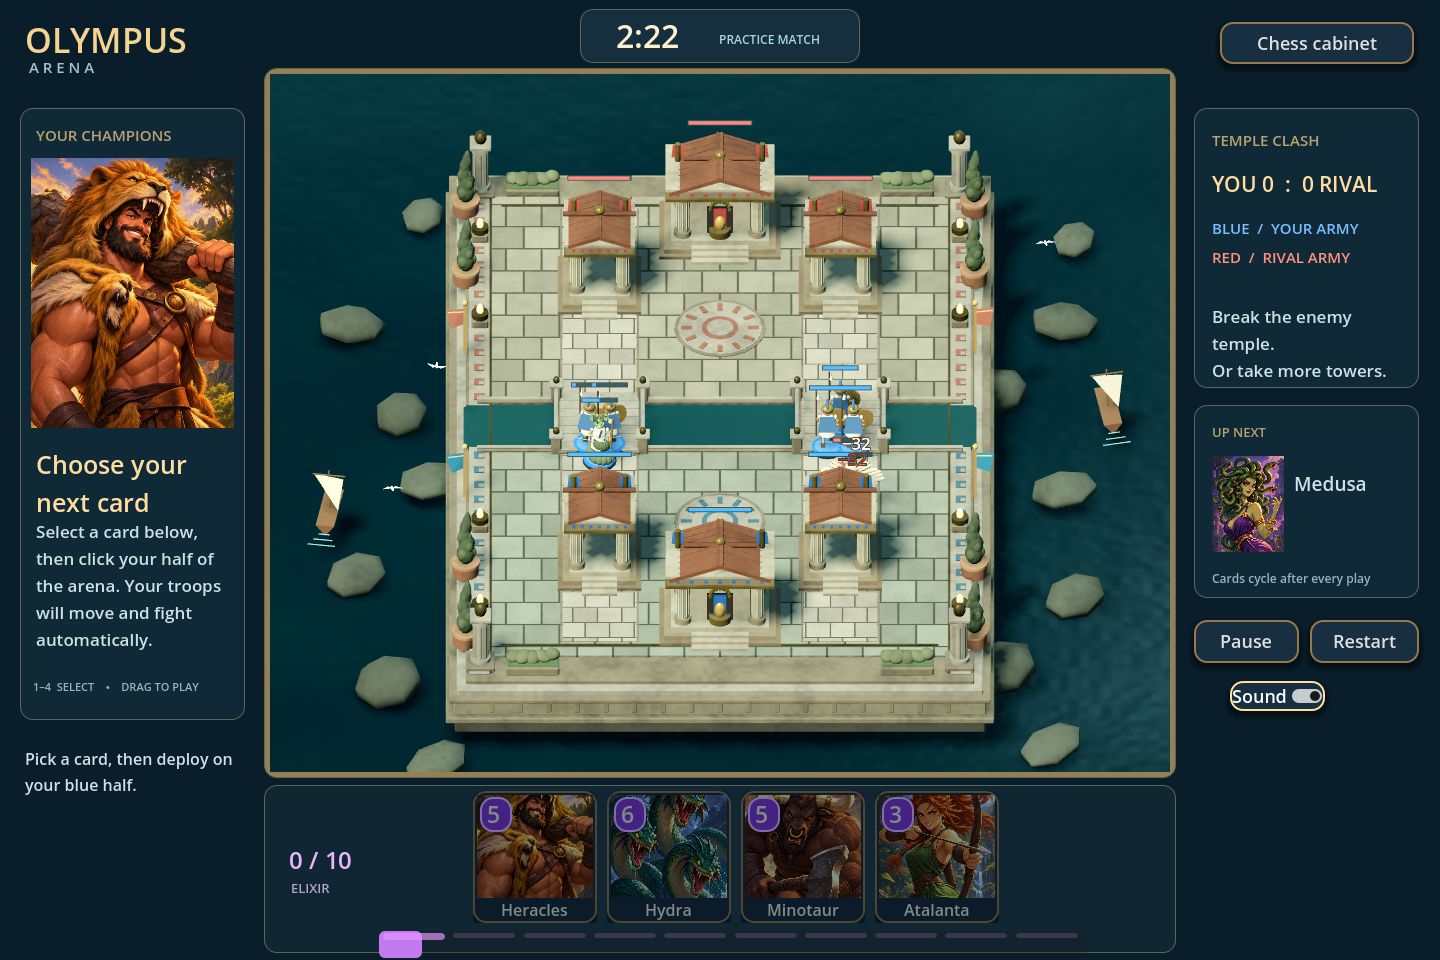
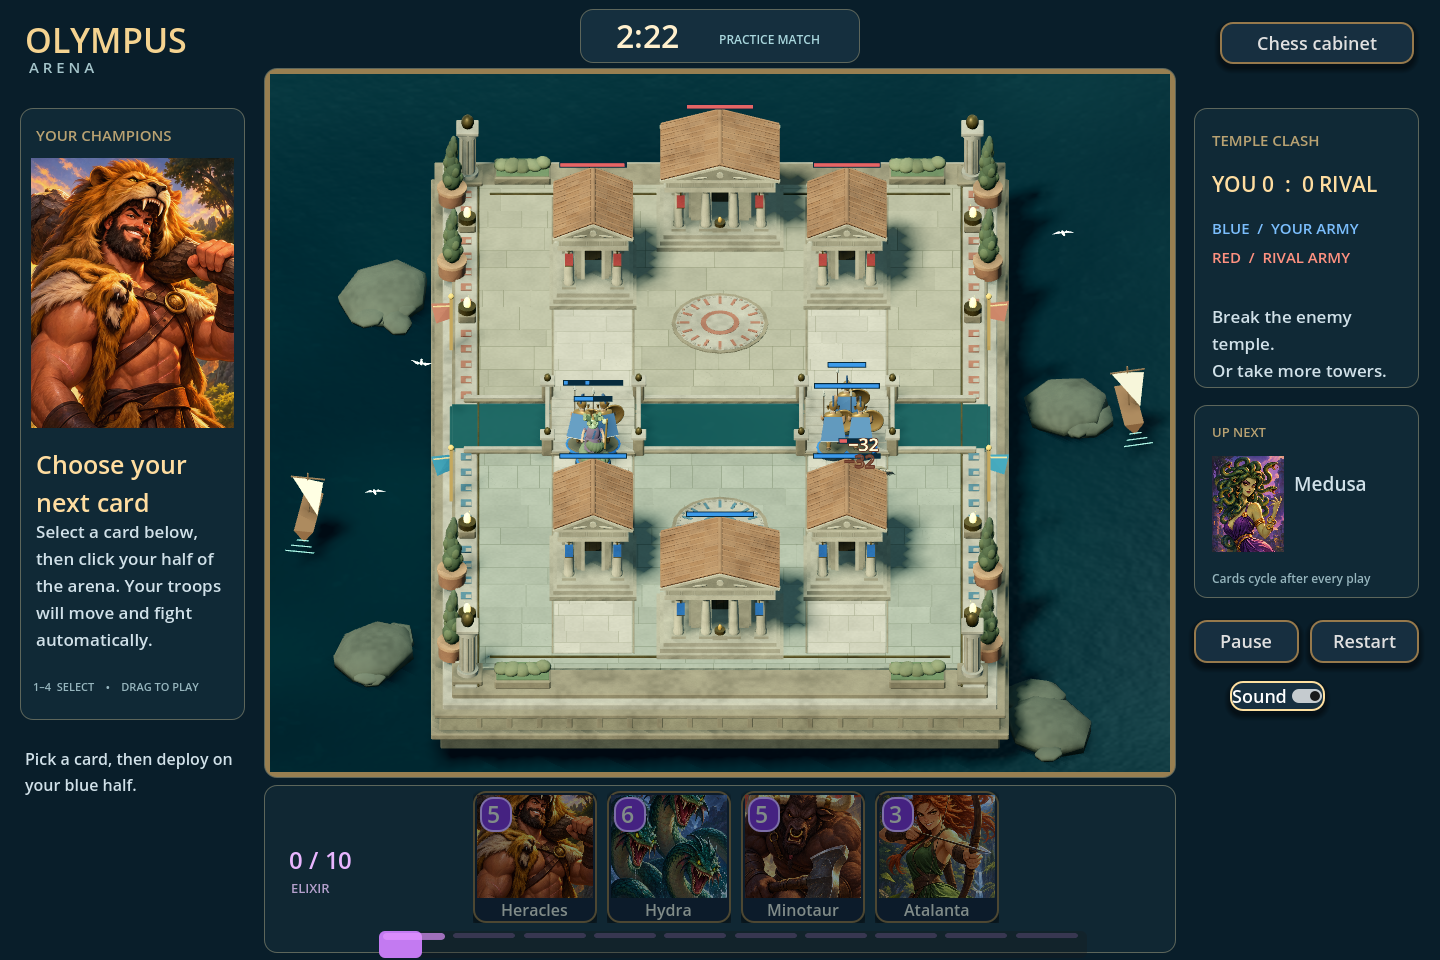
Record integrated temple and roster art checkpoint

Changed region(s): [[0.1875, 0.0938, 0.8125, 0.8125]]

diff --git a/docs/HANDOFF.md b/docs/HANDOFF.md
@@ -1,6 +1,16 @@
 # Board Game Cabinet handoff
 
-Updated 2026-09-05. Repository: [dancockrell/board-game-cabinet](https://github.com/dancockrell/board-game-cabinet), private.
+Updated 2026-09-06. Repository: [dancockrell/board-game-cabinet](https://github.com/dancockrell/board-game-cabinet), private.
+
+## Latest integrated sanctuary checkpoint
+
+The user specifically requested much better buildings and parallel model work. The arena now uses complete Doric architecture in `presentation/olympus_architecture.gd`: enclosed cellae, recessed entrances, three-step bases, four/eight fluted columns with entasis and capitals, solid pediments, carved frieze details, overlapping pan tiles, raised cover tiles and ridge caps. Heights remain around 2.3 arena units so the gameplay camera and troop visibility retain their existing contract. `tools/capture_olympus_architecture.gd` renders a close study using the actual runtime buildings.
+
+Five units now use shaped profile/tube mesh builders: Hoplite and Minotaur in `olympus_sculpt.gd`, Atalanta in `olympus_archer.gd`, and Hydra/Harpies in `olympus_creatures.gd`. Atalanta has a green hunting chiton, natural head proportions, bow, quiver and strapped footwear. Hydra has separated sinuous necks and wedge-shaped reptile heads. Harpies have adult anatomy and closed, overlapping feather meshes. The final visual review found and fixed inward-facing feather normals; `test_olympus_creatures.gd` guards this specific defect. Heracles and Medusa remain the oldest and weakest figure constructions and are the next modeling priorities.
+
+Current checks: 773 arena rules; 35 native board; 90 stage geometry/budget; 63 full-roster model; 16 creature; 45 native app (47 with captures); 25 combat effects; 11 HUD effects; 48 audio. The full local cabinet regression passed, followed by the targeted creature regression after the feather winding correction. Existing chess and Ninth Gate tests remain green. Native building and roster studies are staged asset reviews; the six-second legal-play motion fixture is separate gameplay evidence. All assets are original code-built geometry and existing project artwork, with no newly imported third-party models.
+
+The next parallel art wave should give one owner Medusa, one Heracles, and one tower damage/collapse presentation. Preserve `Figure` and all direct animation pivot names, authoritative replica roots, snapshot-driven health, and existing gameplay coordinates. Each owner should produce a native close study, a gameplay-distance review, meaningful model lifecycle checks, and one scoped commit before coordinator integration. The `work/` folder is ignored by Godot and Git; keep experiments there and only ship admitted runtime assets.
 
 ## Start here: current request
 

diff --git a/README.md b/README.md
@@ -6,6 +6,8 @@ Press **BATTLE**, select a card with a click or keys **1–4**, then click your 
 
 The latest board pass adds weathered limestone, chamfered masonry, worn paving, deep coastal water, aged bronze, muted terracotta and refined procedural miniatures. Minotaur earns a doubled building strike by travelling; Hydra recovers after avoiding damage. The [board-art contract](docs/OLYMPUS_BOARD_ART.md) sets the target for further realism and authored characters. The complete local graphical regression passes, including 773 arena rules checks.
 
+The sanctuary iteration replaces the buildings with complete Doric temples: solid pediments, layered tiled roofs, enclosed interiors, recessed entrances and fluted columns. Hoplite, Minotaur, Atalanta, Hydra and Harpies now use more deliberate shaped mesh construction. The camera is closer, bases have neutral stone tops, and finer paving and clustered outcrops reduce repetition. These are editable code-built miniatures; the current [handoff](docs/HANDOFF.md) identifies the remaining art gaps.
+
 The first roster is **Hoplites, Atalanta, Minotaur, Medusa, Heracles, Hydra, Harpies, and Thunderbolt**. This is a local playable prototype with a fixed deck and basic bot, not online multiplayer or a progression system. See the [arena guide](docs/OLYMPUS_ARENA.md), [exact rules](games/olympus_arena/RULES.md), and [current handoff](docs/HANDOFF.md). The Ninth Gate remains a parked historical experiment; Go, Xiangqi, and checkers have not been implemented.
 
 ![Actual native arena gameplay](docs/images/olympus-arena.png)

diff --git a/docs/OLYMPUS_BOARD_ART.md b/docs/OLYMPUS_BOARD_ART.md
@@ -54,3 +54,5 @@ The next authored-model gate remains one complete Hoplite. It should replace the
 `presentation/olympus_sculpt.gd` builds explicitly shaped Hoplite and Minotaur geometry using ring profiles and tapered curved tubes. This is an intermediate asset technique with editable source: no external model or texture dependencies. The Hoplite shield and spear, and Minotaur axe, belong to animated arm children. Preserve this attachment in any replacement. The old sphere assembly is no longer the visual standard for those two units.
 
 The stage uses mixed rectangular courses and subtle joints so the paving supports the figures without competing with them. Team color belongs on a thin plinth rim; its top is neutral weathered stone. Health bars are unlit and cast no shadows. The next art priority is to bring the Hydra, Harpies, Atalanta and Medusa to the same degree of shape control, then review attack poses and crowd silhouettes in both teams.
+
+The September 6 integration admits the Atalanta and creature builders alongside complete Doric temples. Temple admission includes solid pediment faces, correct roof cover/ridge orientation, recessed interior depth, and the same footprint/height limits as the gameplay structures. Feather meshes must be closed and have outward-facing normals on every face; a dark or hollow reverse side is an admission failure. The next model priorities are Medusa and Heracles. Fine authored texture work and skeletal animation remain future production work.
